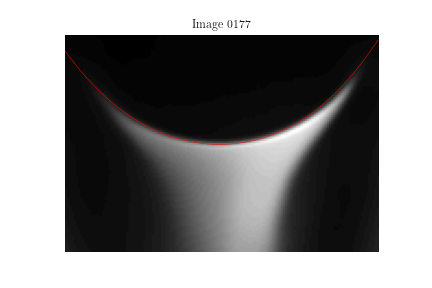
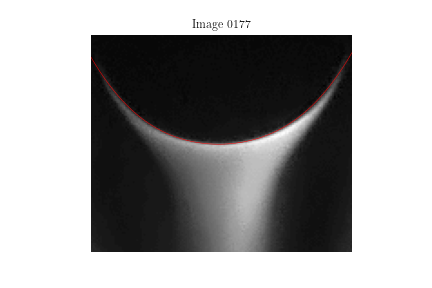
update

Changed region(s): [[0.5417, 0.0938, 0.9028, 0.875], [0.1505, 0.0938, 0.4514, 0.875], [0.5116, 0.5, 0.5417, 0.5312]]

diff --git a/Cap_Rise_Anna/gif_creation/recontrasting_test.py b/Cap_Rise_Anna/gif_creation/recontrasting_test.py
@@ -1,0 +1,70 @@
+#!/usr/bin/env python3
+# -*- coding: utf-8 -*-
+"""
+Created on Tue Oct 13 10:26:07 2020
+
+@author: ratz
+@description: Testing of recontrasting
+"""
+
+
+from skimage.io import imread, imshow, imsave # for reading and showing
+import cv2 # for reading images
+import matplotlib.pyplot as plt # for plotting
+import numpy as np # for arrays
+import os # for datah paths
+import Image_processing_functions as imgprocess # for edge detection
+
+#load the image
+Name_img = 'test_images' + os.sep + '350Pa_C01277.png'
+Im = cv2.imread(Name_img, 0)
+
+
+wall_cut = 0 # Cutting pixels near the wall
+treshold_pos = 1  # threshold for the gradient 
+crop_indx1 = 66  # first x coordinate to crop the image
+crop_indx2 = 210 # second x coordinate to crop the image
+crop_indy1 = 0 # first y coordinate to crop the image
+crop_indy2 = 1280 # second y coordinate to crop the image
+width = 5 # width of the channel
+pix2mm = width/(crop_indx2-crop_indx1) # pixel to mm
+
+# crop the image
+Im_denoise = Im[crop_indy1:crop_indy2,crop_indx1:crop_indx2]
+# remove background noise
+# Im_denoise = cv2.fastNlMeansDenoising(Im_denoise,10,1,7,21)
+
+# get the histogramm and show it
+equ = cv2.equalizeHist(Im_denoise)
+res = np.hstack((Im_denoise, equ)) #stacking images side-by-side
+imshow(res)
+
+# get the histogram and show it
+hist = cv2.calcHist([Im_denoise],[0],None,[256],[0,256])
+plt.figure()
+plt.plot(hist)
+
+"""
+this is the part imported from Anna's codes
+"""
+
+# detect the interface and plot it
+grad_img,y_index, x_index = imgprocess.edge_detection_grad(equ,treshold_pos,wall_cut)
+
+mu_s,i_x,i_y,i_x_mm,i_y_mm,X,img_width_mm = imgprocess.fitting_advanced(grad_img,pix2mm,l=5,sigma_f=2000,sigma_y=10)
+
+mu_s = mu_s/pix2mm
+crop_img1 = equ[int(1280-mu_s[500])-50:int(1280-mu_s[500])+50,0:144]
+    
+plt.figure()
+plt.imshow(crop_img1, cmap=plt.cm.gray)
+plt.plot((X)/(pix2mm)-0.5, -mu_s+mu_s[500]+50, 'r-', linewidth=0.5)
+#plt.plot(i_x,len(grad_img[:,0])-i_y,'x')
+plt.axis('off')
+Name= 'images_detected' + os.sep +'Step_'+'.png'
+# MEX= 'Exporting Im '+ str(1)+' of ' + '2000'
+# print(MEX)
+# plt.grid()
+# plt.title('Image %04d' % (idx-n_start+1))
+plt.savefig(Name)
+                                             

diff --git a/Cap_Rise_Anna/gif_creation/video_edge_detection.py b/Cap_Rise_Anna/gif_creation/video_edge_detection.py
@@ -23,7 +23,7 @@ n_t = n_start+2000 # number of images
 
 treshold_pos = 1  # threshold for the gradient 
 
-wall_cut = 3 # Cutting pixels near the wall
+wall_cut = 0 # Cutting pixels near the wall
 
 crop_indx1 = 66  # first x coordinate to crop the image
 crop_indx2 = 210 # second x coordinate to crop the image
@@ -69,7 +69,7 @@ for k in range(0,5):
     image = name + '%05d' %idx + '.png'  # file name
     # print(image)
     img=cv2.imread(image,0)  # read the image
-    dst = cv2.fastNlMeansDenoising(img,10,10,7,21)
+    dst = cv2.fastNlMeansDenoising(img,10,1,7,21)
     dst2 = 3*dst.astype(np.float64)
     crop_img =dst2[crop_indy1:crop_indy2,crop_indx1:crop_indx2]  # crop
     
@@ -113,11 +113,11 @@ for k in range(0,5):
     # Generate temporary images with the fitted curve
     #--------------------------------------------------------------------------
     mu_s = mu_s/pix2mm
-    crop_img1 = crop_img[int(1280-mu_s[500])-50:int(1280-mu_s[500])+50,0:144]
+    crop_img1 = crop_img[int(1280-mu_s[500])-60:int(1280-mu_s[500])+60,0:144]
     
     plt.figure()
     plt.imshow(crop_img1, cmap=plt.cm.gray)
-    plt.plot((X)/(pix2mm)-0.5, -mu_s+mu_s[500]+50, 'r-', linewidth=0.5)
+    plt.plot((X)/(pix2mm)-0.5, -mu_s+mu_s[500]+60, 'r-', linewidth=0.5)
     #plt.plot(i_x,len(grad_img[:,0])-i_y,'x')
     plt.axis('off')
     Name=Fol_Out+ os.sep +'Step_'+str(idx)+'.png'
@@ -127,7 +127,7 @@ for k in range(0,5):
     plt.title('Image %04d' % (idx-n_start+1))
     plt.savefig(Name)   
     images.append(imageio.imread(Name))
-    plt.close('all')
+    # plt.close('all')
 
 #%% Generate gif
 GIFNAME='AnimationTest.gif'
